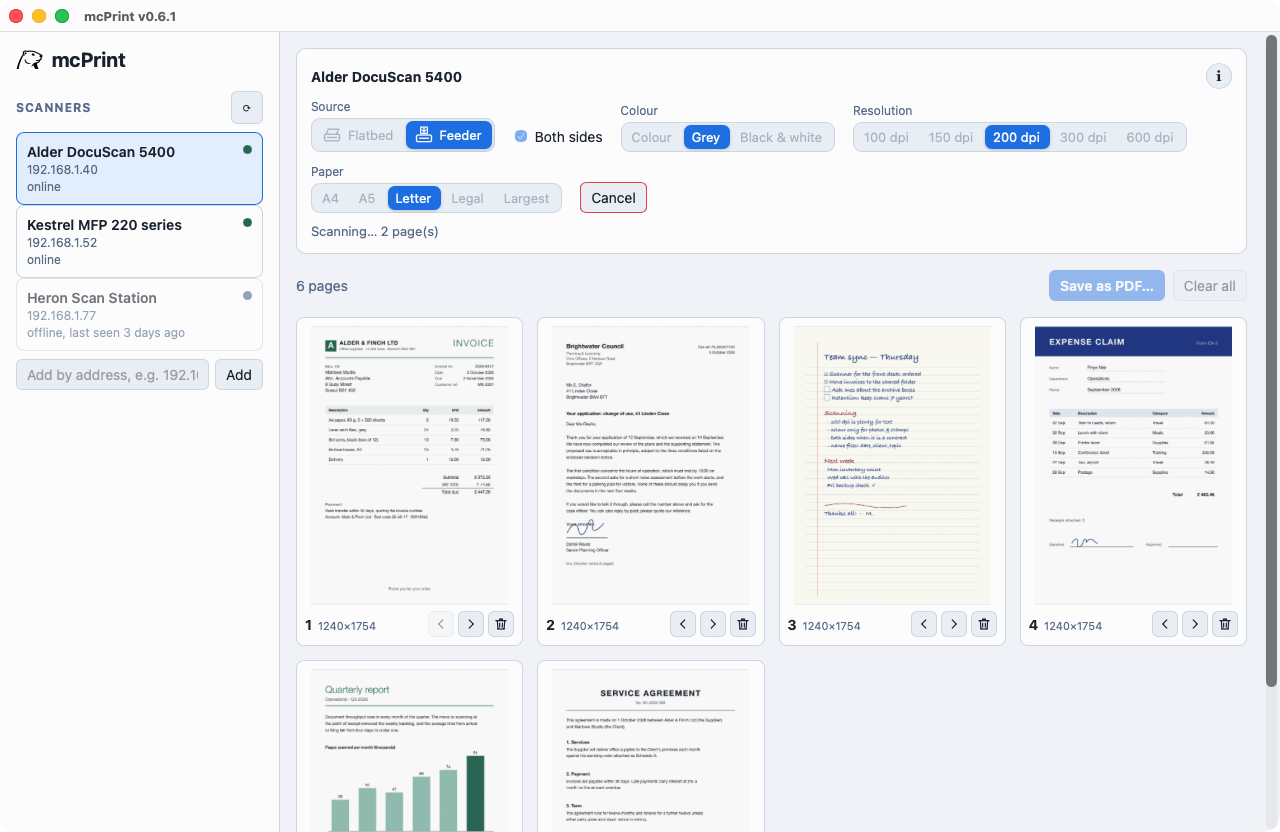
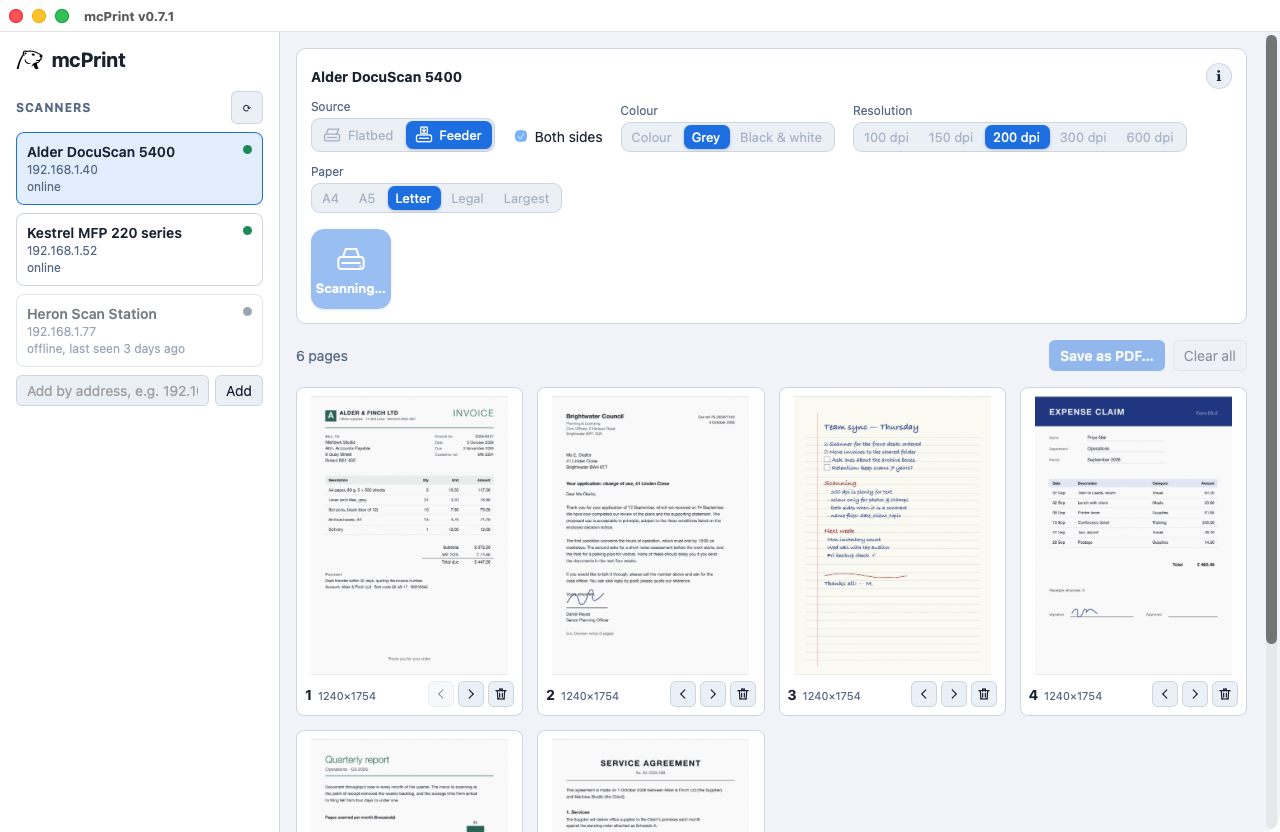
New screenshots for 0.7.1, one for the insert marker; README: insert anywhere, job queue, black and white, viewer rotation

diff --git a/README.md b/README.md
@@ -22,11 +22,16 @@ into one PDF. No driver, no vendor software, no account.
 - **Finds your scanners.** It looks for eSCL (AirScan) scanners with mDNS (Bonjour) and remembers them, so they are there the moment
   you start the app. A scanner that does not answer mDNS (some networks block it) can be added by its address.
 - **Only what your scanner can do.** Source (flatbed or feeder), both sides, colour, resolution and paper size are offered as toggles,
-  from what the scanner reports; your choices are remembered per scanner. The **i** button shows everything the scanner told us.
-- **Pages show up as they are scanned.** Feed a stack and watch the pages arrive; **Cancel** stops the job on the scanner. When something
+  from what the scanner reports; your choices are remembered per scanner. The **i** button shows everything the scanner told us, including
+  the jobs it keeps in its queue, with a **Clear queue** button for a job that got stuck. Black & white also works on scanners that only
+  deliver it as grey: the page is made black and white here.
+- **Pages show up as they are scanned.** Feed a stack and watch the pages arrive (the scan button waits until it is done). When something
   goes wrong (feeder empty, scanner off), there is a **Reconnect** or **Try again** button.
-- **Page view.** Click a page to see it large: scroll to zoom, drag to move, double-click to fit or zoom in, arrow keys to flip pages.
+- **Page view.** Click a page to see it large: scroll to zoom, drag to move, double-click to fit or zoom in, arrow keys to flip pages,
+  **R** to turn the page for viewing (the page itself is not changed).
 - **Rearrange.** Drag a page to a new place and see where it will land, or use the arrows; delete pages you do not want.
+- **Insert anywhere.** Click the **+** between two pages (or before the first, after the last) and the next scan lands there, shown as a
+  dashed page ([screenshot](docs/screenshots/08-insert-marker.png)).
 - **Save as PDF.** One PDF with all pages, in the order shown. The scanned JPEGs are embedded as they came from the scanner.
 - **Picks up where you left off.** The pages of the last session are restored when you reopen the app.
 - **Follows your system.** Light or dark mode, and the About window in the place each system puts it.
